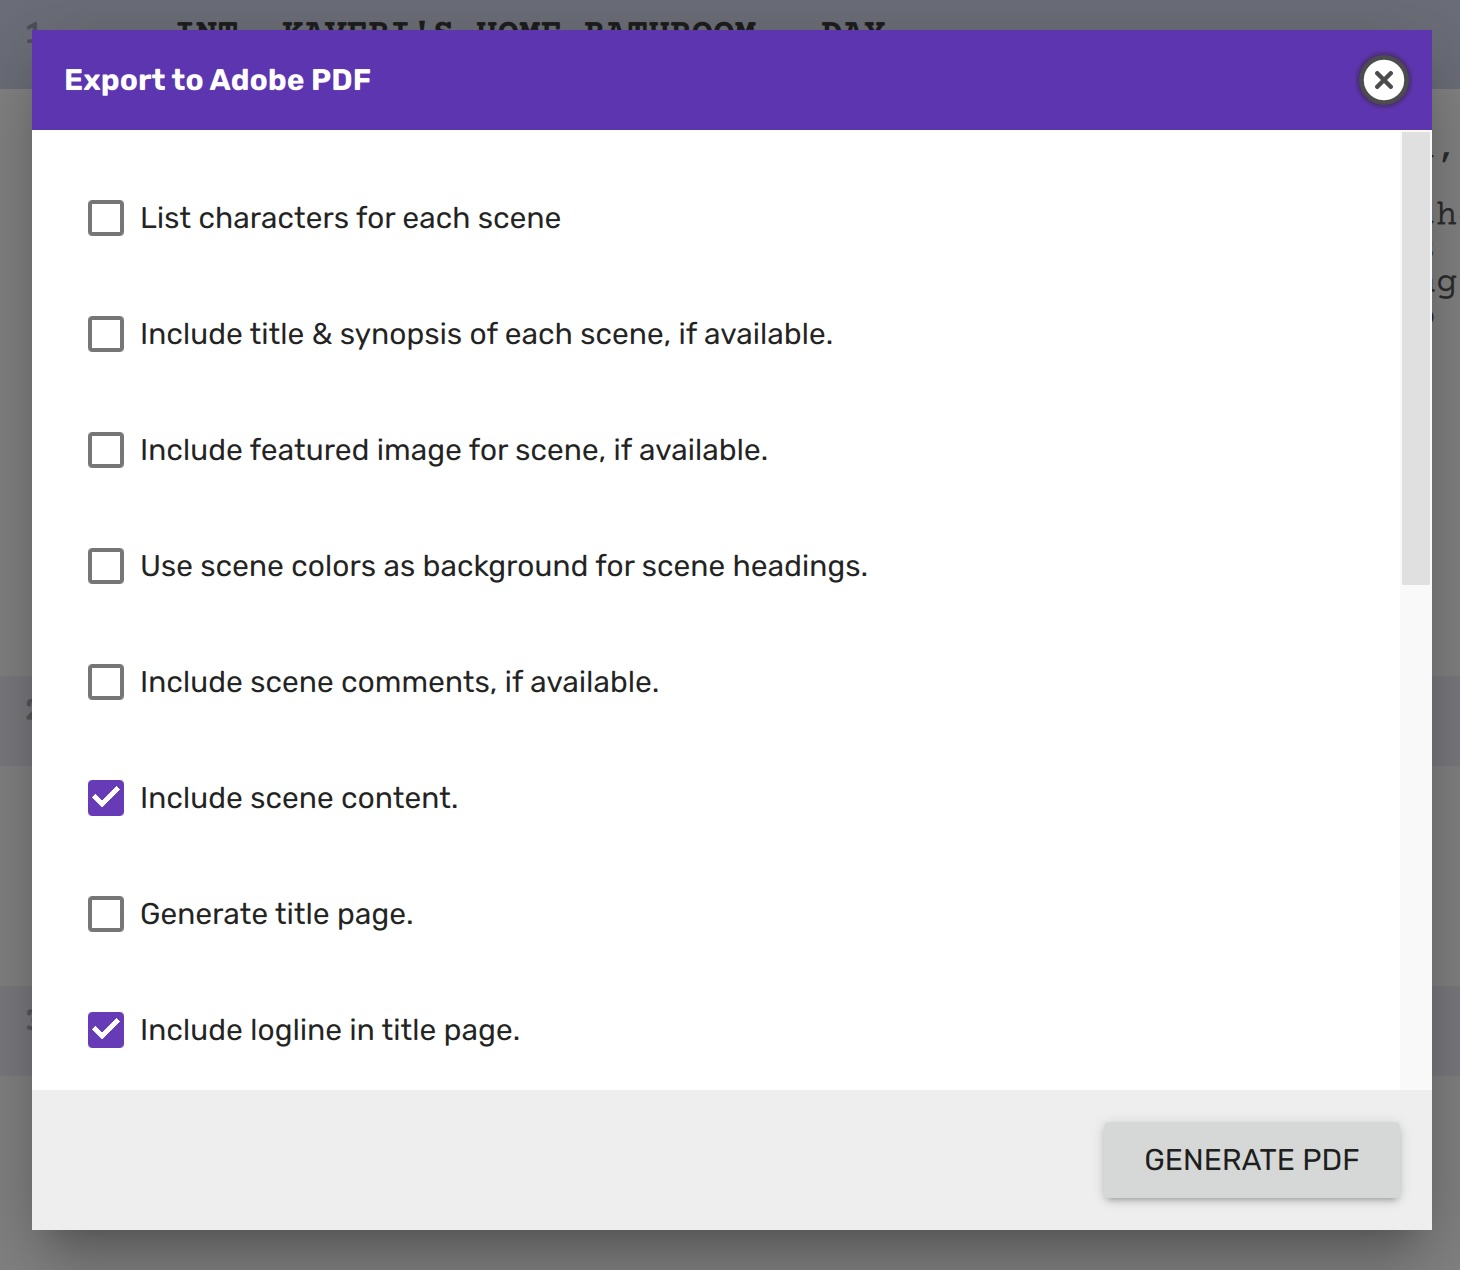
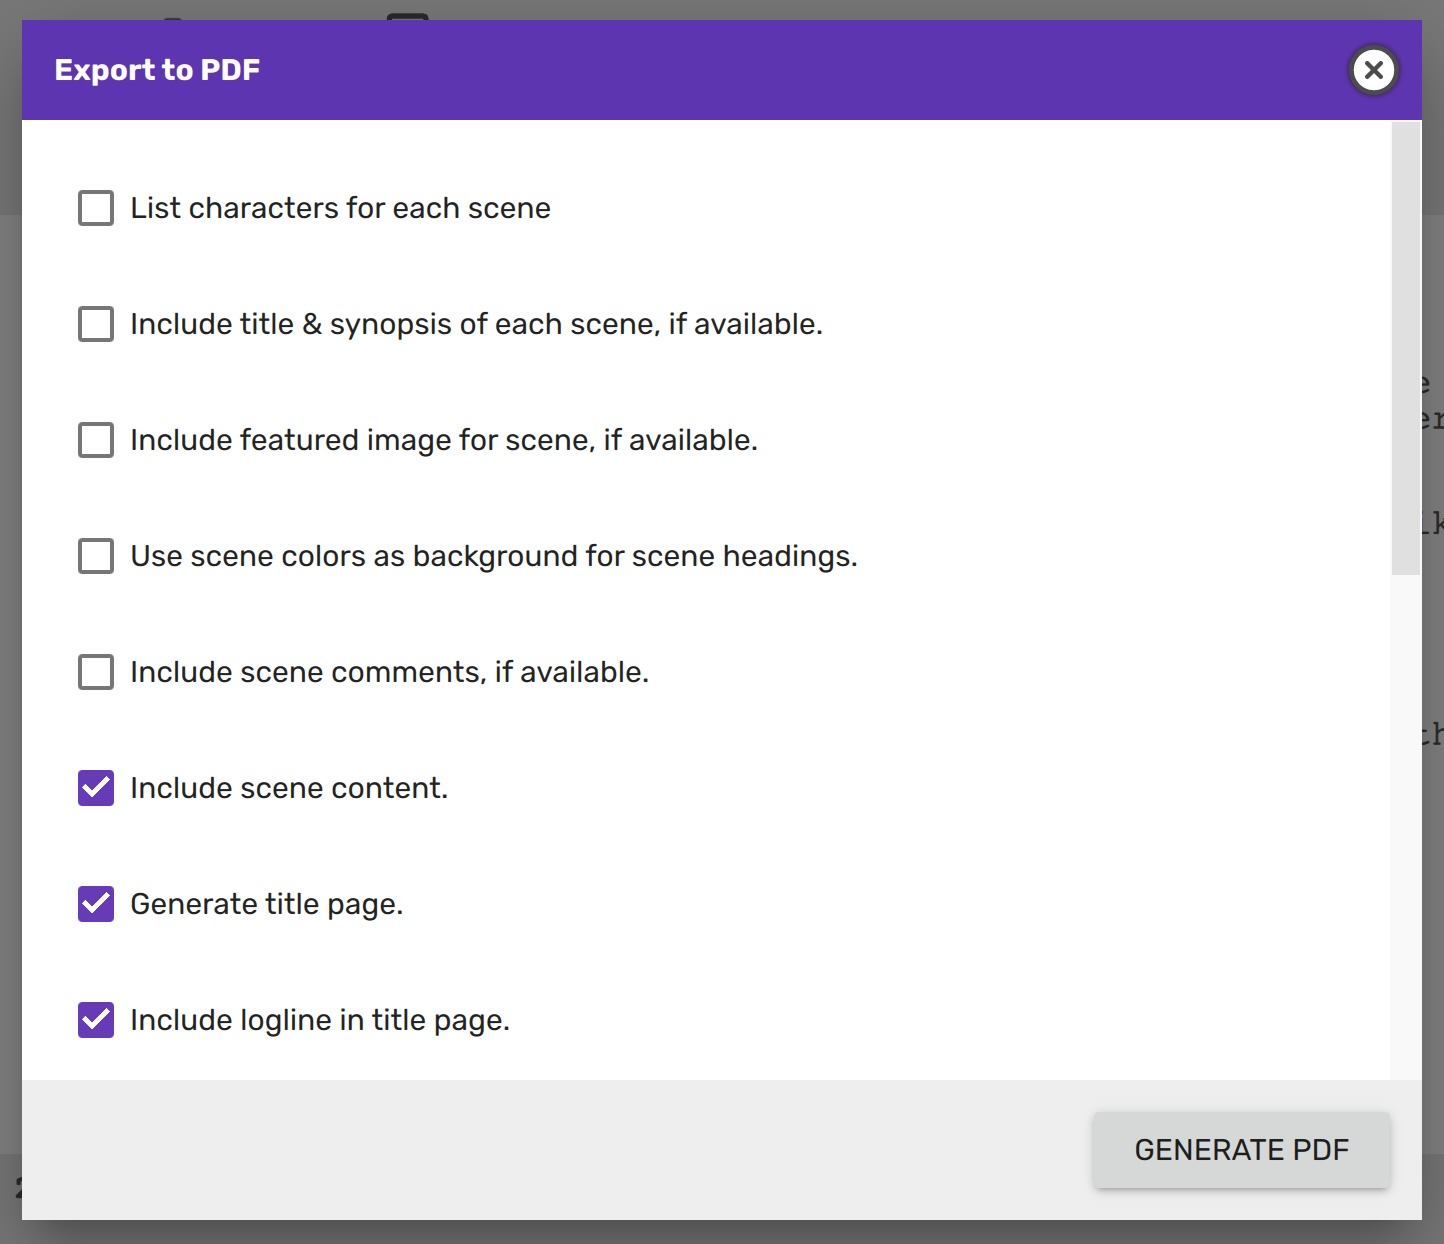
[userguide] Included a section on the help center.

Changed region(s): [[0.0, 0.0, 1.0, 1.0]]

diff --git a/docs/userguide/docs/exports.md b/docs/userguide/docs/exports.md
@@ -3,7 +3,7 @@
 Screenplays written in Scrite can be exported to several formats, each suited
 for different purposes:
 
-- [Adobe PDF](#adobe-pdf) — Share a read-only copy with others
+- [PDF](#pdf) — Share a read-only copy with others
 - [Final Draft](#final-draft) — Use with production planning and script
   breakdown software
 - [Fountain](#fountain) or [Plain Text](#plain-text) — Edit with markdown
@@ -28,14 +28,14 @@ Center](./user-interface.md#command-center).
 As you can notice the `Ctrl+P` shortcut is assigned to PDF Export by default.
 You can assign a shortcut of your choice to all other export options.
 
-## Adobe PDF
+## PDF
 
 PDF is the most widely used format for sharing screenplays. It preserves your
 screenplay's formatting perfectly across all devices and platforms, making it
 ideal for sending to actors, directors, producers, or anyone who needs to read
 your script without making changes.
 
-When you select Adobe PDF from the [export menu](#export-menu), or [Command
+When you select PDF from the [export menu](#export-menu), or [Command
 Center](./user-interface.md#command-center), or by using the
 [shortcut](./user-interface.md#keyboard-shortcuts) `Ctrl+P`, you will see a
 dialog box like this.
@@ -286,7 +286,7 @@ At the moment it is not possible to import a HTML file in Scrite.
 
 Checkable options in each of the export dialog boxes are persistent across
 multiple use and sessions. This means if you have checked the `Generate title
-page` option in [PDF Export](#adobe-pdf) dialog box, it will remain checked in
+page` option in [PDF Export](#pdf) dialog box, it will remain checked in
 all future use of the same. This is done to save you the burden of having to
 configure export options each time.
 

diff --git a/docs/userguide/docs/user-interface.md b/docs/userguide/docs/user-interface.md
@@ -172,6 +172,17 @@ author, title, subtitle, or any word in the logline.
 > context. So its possible that you won't find one or more commands in here,
 > even though they are listed in the shortcuts dialog box.
 
+## Help Center
+
+Starting with version 2.0.20, you can lookup help topics in this user guide,
+from within the app.
+
+Just hit the `F1` key to launch the help center. Type a keyword or two to filter
+relavent topics, use the arrow keys to select one and hit `Return` to open it in
+your browser.
+
+<img src="../images/ui/011-help-center.jpg" width="85%"/>
+
 ## Jump to Scene
 Working in a large screenplay? Press `Ctrl+G`, type a scene/act/episode, and
 press `Enter` to jump.

diff --git a/docs/userguide/docs/quickstart.md b/docs/userguide/docs/quickstart.md
@@ -229,7 +229,7 @@ the first scene.
 <img src="../images/quickstart/024-title-page.png" width="100%"/>
 
 ## Exporting to PDF
-Select `Export → Adobe PDF`, or press `Ctrl+P` (Windows/Linux) or `⌘+P` (macOS)
+Select `Export → PDF`, or press `Ctrl+P` (Windows/Linux) or `⌘+P` (macOS)
 to preview your PDF.
 
 The Export dialog offers options to customize your PDF—toggle title page,
